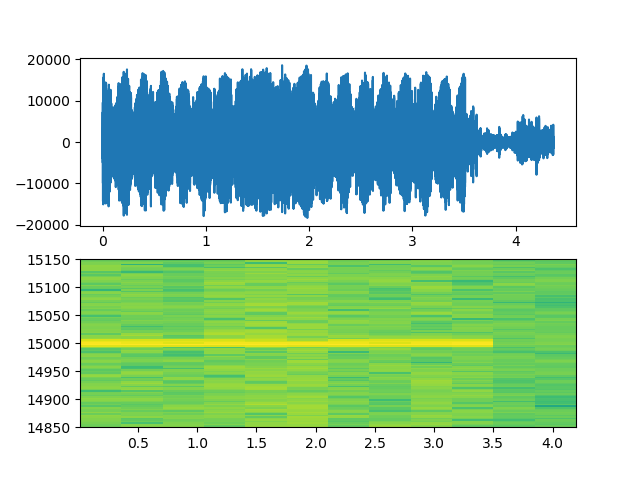
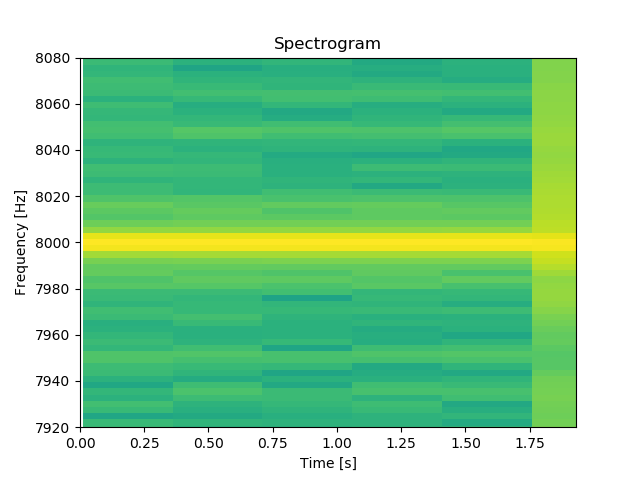
CW complete.

diff --git a/RadarPi/templates/results.html b/RadarPi/templates/results.html
@@ -39,7 +39,7 @@
                             <div class="row align-items-center">
                                 <div class="col-md-6" style="padding-left:0px;padding-right:0px;"><img class="img-thumbnail" src="static/assets/img/image5.png"></div>
                                 <div class="col-md-6">
-                                    <h3>Lorem impsum dolor sit amet</h3>
+                                    <h3>
                                     <div class="getting-started-info">
                                     <table border = 1>
                                          {% for key, value in results.items() %}
@@ -49,8 +49,9 @@
                                                </tr>
                                          {% endfor %}
                                     </table>
-                                        <p>Lorem ipsum dolor sit amet, consectetur adipisicing elit. Lorem ipsum dolor sit amet, consectetur adipisicing elit. Lorem ipsum dolor sit amet, consectetur adipisicing elit.</p>
-                                    </div><a class="btn btn-outline-info btn-lg" role="button" href="#">Join Now</a></div>
+                                    <br>
+                                    </div><a class="btn btn-outline-info btn-lg" role="button" href="radarpi.html">Home</a></div>
+                                    </h3>
                             </div>
                         </div>
                     </section>

diff --git a/RadarPi/templates/cwT.html b/RadarPi/templates/cwT.html
@@ -41,7 +41,7 @@
                 <form action = "http://RadarPi.local:8080/results.html" method = "POST">
                     <div class="form-group"><label for="readonly">Mode</label><input class="form-control" type="text" name="mode" placeholder="Continuous Technical" value="Continuous Technical" readonly></div>
                     <div class="form-group"><label>Frequency</label><input class="form-control" type="number" name="frequency" placeholder="5000Hz - 15000Hz"></div>
-                    <div class="form-group"><label>Duration</label><input class="form-control" type="number" name="duration" placeholder="2s - 5s"></div>
+                    <div class="form-group"><label>Duration</label><input class="form-control" type="number" name="duration" step="0.1" placeholder="2s - 5s"></div>
                     <div class="form-group"><button class="btn btn-primary btn-block" type="submit">Submit</button></div>
                 </form>
             </div>

diff --git a/RadarPi/templates/cwNT.html b/RadarPi/templates/cwNT.html
@@ -41,7 +41,7 @@
                 </div>
                 <form action = "http://RadarPi.local:8080/results.html" method = "POST">
                     <div class="form-group"><label for="readonly">Mode</label><input class="form-control" type="text" name="mode" placeholder="Continuous Non-Technical" value="Continuous Non-Technical" readonly></div>
-                    <div class="form-group"><label>Duration</label><input class="form-control" type="number" name="duration" placeholder="2s - 5s"></div>
+                    <div class="form-group"><label>Duration</label><input class="form-control" type="number" name="duration" step="0.1" placeholder="2s - 5s"></div>
                     <div class="form-group"><button class="btn btn-primary btn-block" type="submit">Submit</button></div>
                 </form>
             </div>

diff --git a/RadarPi/cwProcessing.py b/RadarPi/cwProcessing.py
@@ -26,10 +26,21 @@ def cwProcessing(Rx_Signal, frequency=8000):
     T = 1.0 / 44100
     t = np.linspace(0.0, N*T, N)
     
-    fig, (ax1, ax2) = plt.subplots(nrows=2)
-    ax1.plot(t, y)
-    Pxx, freqs, bins, im = ax2.specgram(y, NFFT=16384, Fs=44100, noverlap=1000)
+#     fig, (ax1, ax2) = plt.subplots(nrows=2)
+#     ax1.plot(t, y)
+#     Pxx, freqs, bins, im = ax2.specgram(y, NFFT=16384, Fs=44100, noverlap=1000)
+#     plt.ylim((f1+(frequency*0.04), f2-(frequency*0.04)))   # set the ylim to bottom, top
+    
+    
+    Pxx, freqs, bins, im = plt.specgram(y, NFFT=16384, Fs=44100, noverlap=1000)
+#     plt.plot(Pxx)
     plt.ylim((f1+(frequency*0.04), f2-(frequency*0.04)))   # set the ylim to bottom, top
+    plt.xlim(0, bins[-1])
+#     print(bins[-1])
+    plt.title('Spectrogram')
+    plt.xlabel('Time [s]')
+    plt.ylabel('Frequency [Hz]')
+    
     # The `specgram` method returns 4 objects. They are:
     # - Pxx: the periodogram
     # - freqs: the frequency vector

diff --git a/RadarPi/webapp.py b/RadarPi/webapp.py
@@ -9,6 +9,11 @@ from flask import Flask, render_template, request
 
 app = Flask(__name__)
 
+@app.after_request
+def add_header(response):
+    response.cache_control.no_store = True
+    return response
+
 @app.route("/")
 @app.route("/radarpi.html")
 @app.route("/radarpi")
@@ -110,4 +115,4 @@ def results():
 
 
 if __name__ == "__main__":
-    app.run(host='0.0.0.0', port=8080, debug=False)#host='0.0.0.0'
+    app.run(host='0.0.0.0', port=8080, debug=True)
